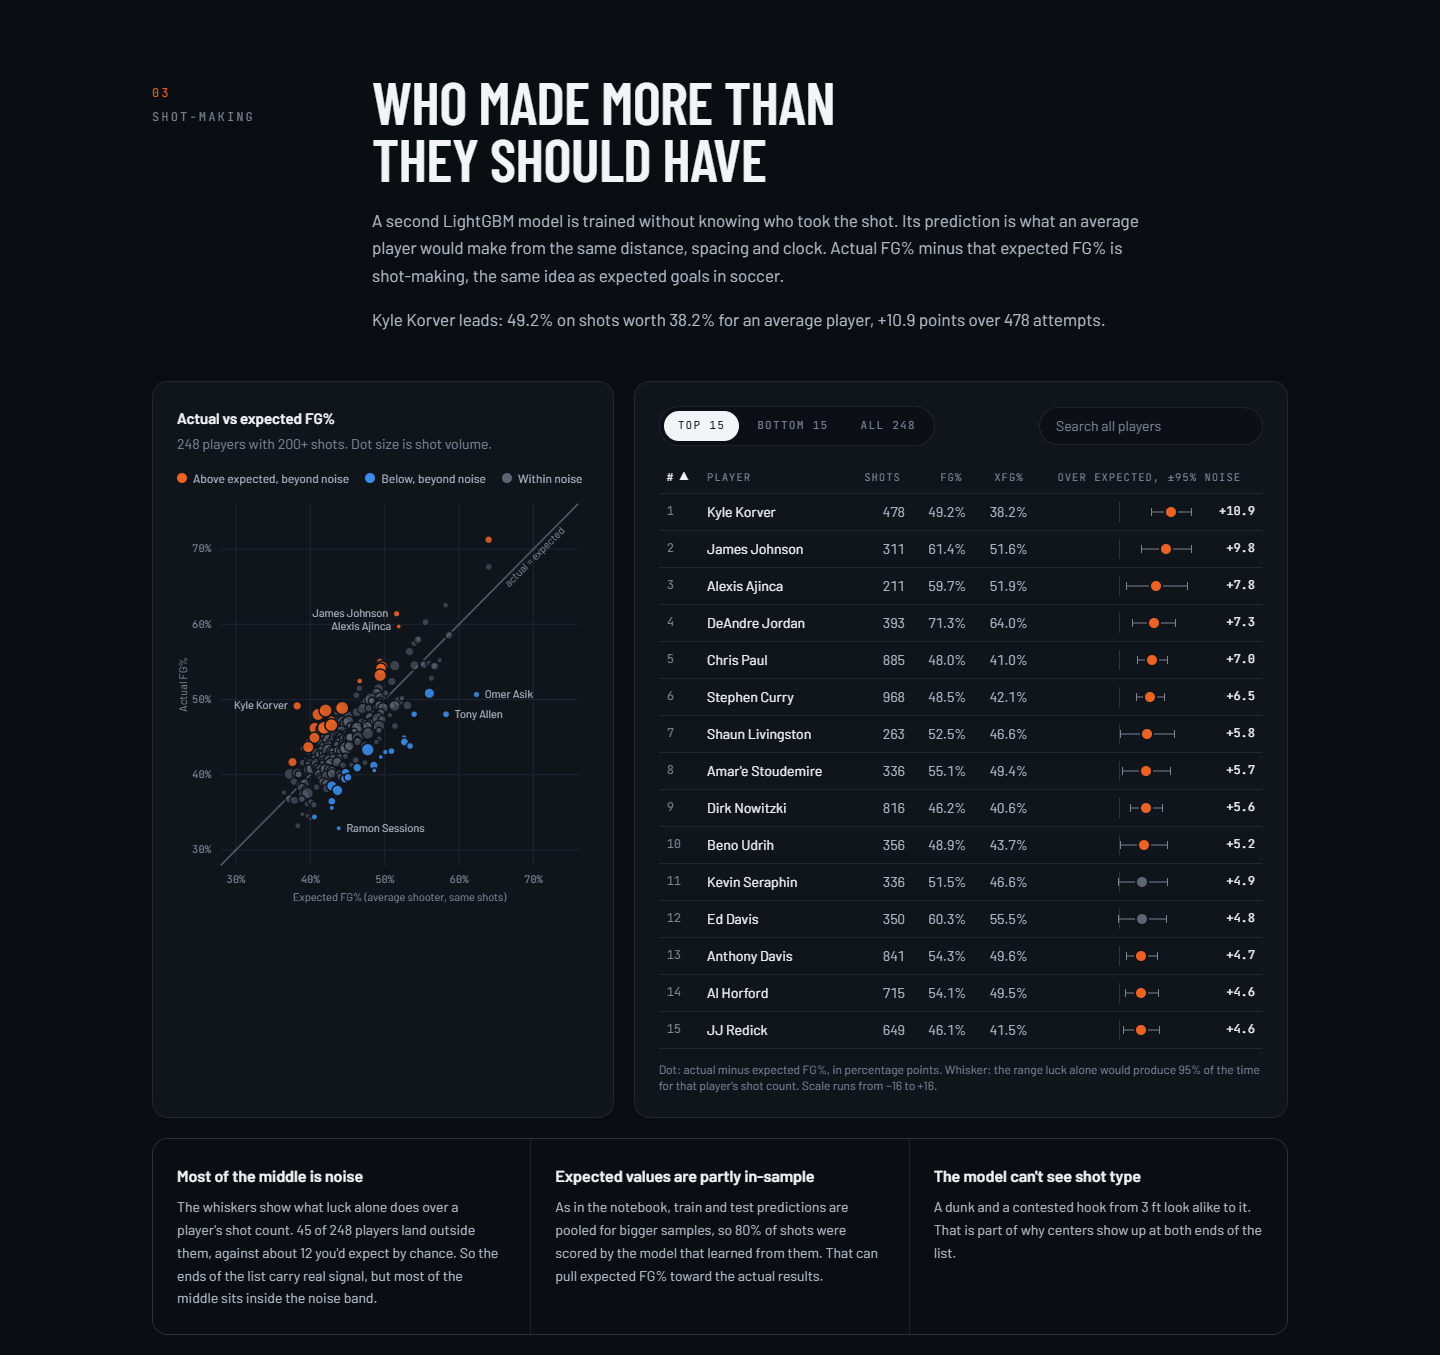
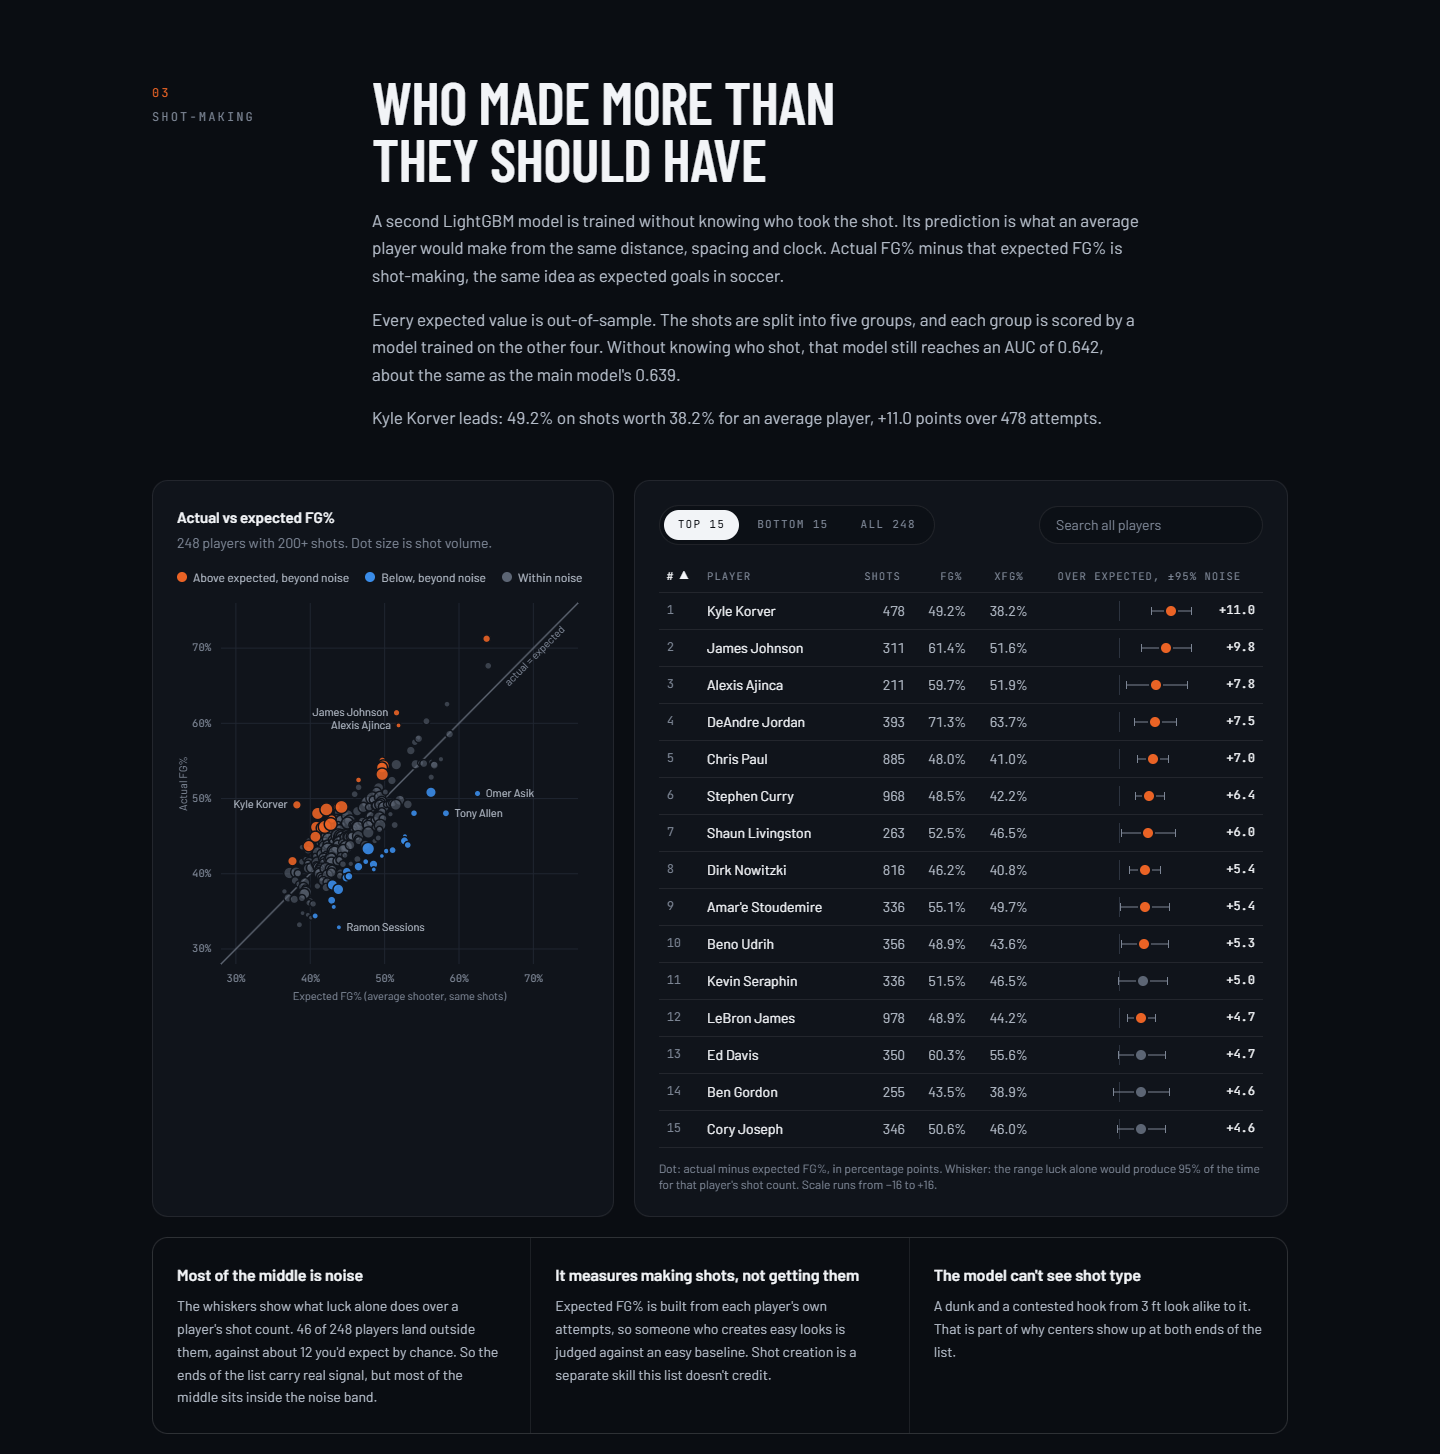
Update README and screenshots for the out-of-fold leaderboard

diff --git a/README.md b/README.md
@@ -31,30 +31,30 @@ What the numbers say:
 
 ### Shot-making over expected
 
-A second model, trained without the shooter's identity, gives each shot an expected make probability. Actual minus expected FG% measures shot-making (players with 200+ shots). The ± column is the 95% range that luck alone would produce for that shot count.
+A second model, trained without the shooter's identity, gives each shot an expected make probability. The predictions are out-of-fold, so every expected value is out-of-sample: 5-fold cross-validation, with each shot scored by a model trained on the other four folds. Without the shooter, that model still reaches an AUC of 0.642. Actual minus expected FG% measures shot-making (players with 200+ shots). The ± column is the 95% range that luck alone would produce for that shot count.
 
 | Player | Shots | FG% | xFG% | Over expected | Noise band |
 |---|---|---|---|---|---|
-| Kyle Korver | 478 | 49.2 | 38.2 | +10.9 | ±4.3 |
+| Kyle Korver | 478 | 49.2 | 38.2 | +11.0 | ±4.3 |
 | James Johnson | 311 | 61.4 | 51.6 | +9.8 | ±5.3 |
 | Alexis Ajinca | 211 | 59.7 | 51.9 | +7.8 | ±6.5 |
-| DeAndre Jordan | 393 | 71.3 | 64.0 | +7.3 | ±4.5 |
+| DeAndre Jordan | 393 | 71.3 | 63.7 | +7.5 | ±4.5 |
 | Chris Paul | 885 | 48.0 | 41.0 | +7.0 | ±3.2 |
 | ... | | | | | |
 | Nerlens Noel | 444 | 44.4 | 52.7 | -8.3 | ±4.4 |
-| Joakim Noah | 340 | 43.8 | 53.4 | -9.6 | ±5.1 |
-| Tony Allen | 358 | 48.0 | 58.3 | -10.2 | ±4.8 |
-| Ramon Sessions | 219 | 32.9 | 43.8 | -11.0 | ±6.4 |
-| Omer Asik | 300 | 50.7 | 62.4 | -11.7 | ±5.3 |
+| Joakim Noah | 340 | 43.8 | 53.1 | -9.3 | ±5.1 |
+| Tony Allen | 358 | 48.0 | 58.2 | -10.2 | ±4.8 |
+| Ramon Sessions | 219 | 32.9 | 43.9 | -11.0 | ±6.4 |
+| Omer Asik | 300 | 50.7 | 62.5 | -11.8 | ±5.3 |
 
-45 of 248 players fall outside their noise band, where about 12 would by chance. The ends of the list carry real signal; the middle mostly doesn't.
+46 of 248 players fall outside their noise band, where about 12 would by chance. The ends of the list carry real signal; the middle mostly doesn't.
 
 ### Limits
 
 - AUC 0.64 is modest. Shot quality is noisy, and PCA shows made and missed shots overlapping almost everywhere.
 - The data has no x/y shot location, shot type, play type or help defense. Closest defender is measured only at the moment of the shot.
 - It covers one partial season (October 2014 to early March 2015).
-- As in the notebook, the leaderboard pools train and test predictions, so 80% of expected values are in-sample.
+- The leaderboard measures making shots, not creating them. A player who gets easy looks is judged against an easy baseline.
 
 ## Screenshots
 
@@ -126,7 +126,8 @@ npm run preview   # serve web/out locally
 
 ## Reproducibility notes
 
-- Versions are pinned in `requirements.txt`. The package matches the notebook to four decimals on every metric for every model except tuned XGBoost, which is within 0.0002. None of the XGBoost versions tested (2.0 through 3.4) reproduced that one model bit-for-bit. The same best hyperparameters are found, the SHAP values match, and the player leaderboard matches.
+- Versions are pinned in `requirements.txt`. The package matches the notebook to four decimals on every metric for every model except tuned XGBoost, which is within 0.0002. None of the XGBoost versions tested (2.0 through 3.4) reproduced that one model bit-for-bit. The same best hyperparameters are found and the SHAP values match.
+- The player leaderboard deliberately departs from the notebook. The notebook pooled test predictions with in-sample predictions on its own training rows (80% of shots). The package scores every shot out-of-fold with `cross_val_predict`, and the defender encoding is re-fit inside each fold so no held-out result leaks into it. The change turned out to be small: player residuals moved by 0.11 points on average (0.38 at most), rank correlation with the notebook's list is 0.999, and the top 10 and bottom 10 are the same players.
 - The notebook saves and reloads CSVs between steps, and pandas' default float parser can land one ulp away from the original value. That is enough to move a few LightGBM histogram bins, so the package mirrors the round trip in memory (`csv_roundtrip` in `data.py`) to reproduce the notebook exactly.
 - The source data misspells some names (Dirk Nowtizski, Nerles Noel, Beno Urdih, and others). The site and this README show corrected names. Grouping uses player IDs, so results are unaffected.
 - Chart colors were checked for color-vision deficiency separation and contrast against the site's dark surface.
